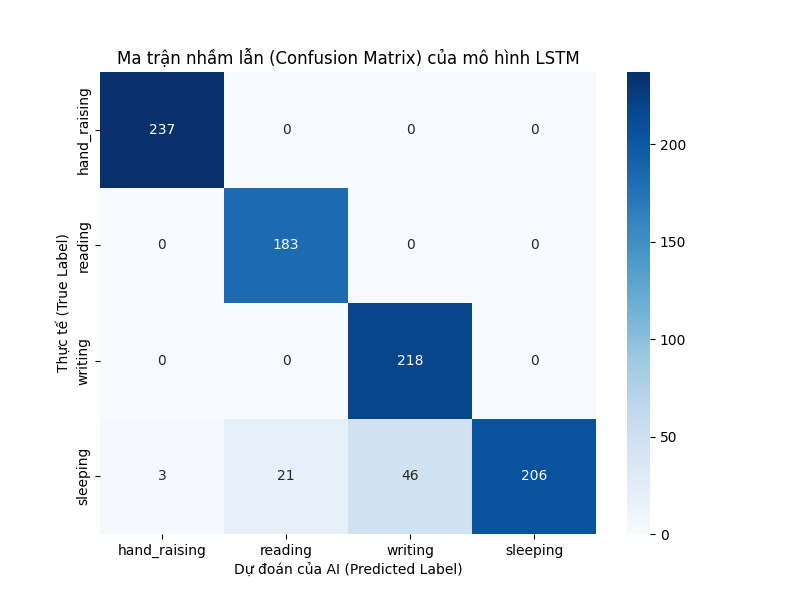
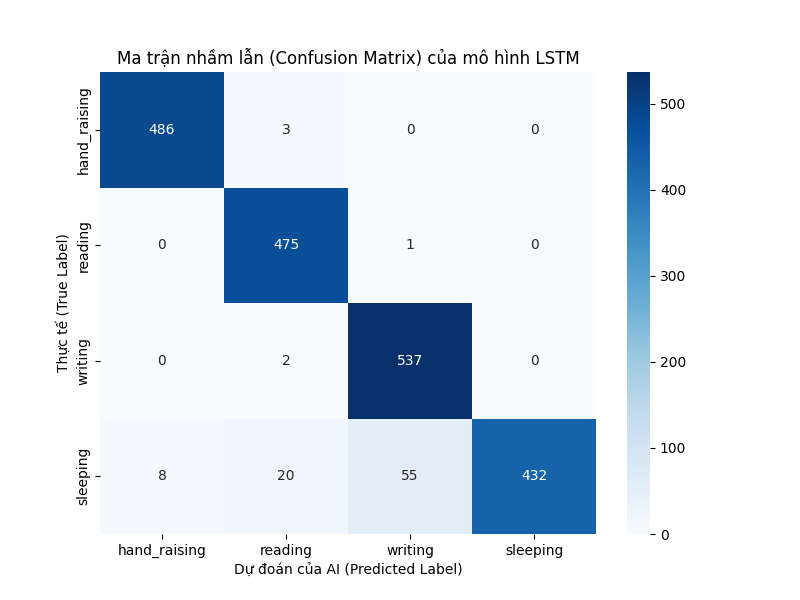
Tuan9 fix feature

diff --git a/src/predict_video.py b/src/predict_video.py
@@ -96,26 +96,38 @@ while True:
             prediction = model.predict(input_data, verbose=0)[0]
             class_id = np.argmax(prediction)
             confidence = prediction[class_id]
-            
-            # --- BỘ LỌC NGƯỠNG TỰ TIN (CONFIDENCE THRESHOLD) ---
-            if confidence < 0.50:
-                current_label = "UNKNOWN"
-            else:
-                current_label = LABEL_MAP[class_id]
+            current_label = LABEL_MAP[class_id]
 
             # --- LƯỚI KHỬ NHIỄU GIƠ TAY (Heuristic Filter) ---
             if current_label == "HAND RAISING" or current_label == "HAND_RAISING":
-                current_features = buffers[track_id][-1] # Tọa độ chuẩn hóa khung hình hiện tại
-                # Theo Code 46 điểm: 15 là cổ tay trái (Tọa độ y: index 31), 16: cổ tay phải (Tọa độ y: index 33)
+                current_features = buffers[track_id][-1] 
                 left_wrist_y = current_features[31]
                 right_wrist_y = current_features[33]
                 
-                # Trục Y của MediaPipe: Số ÂM càng lớn là càng vươn lên cao.
-                # Ngưỡng -0.4 là mức nới lỏng: Tay nhấc qua cằm (Không cần phải thẳng đuột qua đầu).
-                if left_wrist_y > -0.4 and right_wrist_y > -0.4:
-                    # Phủ quyết hành vi Giơ tay (Đưa xác suất Giơ tay về 0)
-                    prediction[0] = 0.0  
-                    # Bắt AI lấy hành vi đứng hạng 2 (Reading / Writing / Sleeping) để làm kết quả
+                # Trục Y: Số ÂM càng lớn là tay càng vươn lên cao. 
+                # Ngưỡng -0.85 bắt buộc tay phải vượt hẳn qua đỉnh đầu (chống cằm/vuốt tóc chỉ khoảng -0.5)
+                is_left_raised = left_wrist_y < -0.85
+                is_right_raised = right_wrist_y < -0.85
+                
+                # Điều kiện ĐÚNG để giơ tay: Có 1 tay vượt đỉnh đầu VÀ không được giơ cả 2 tay (Vươn vai)
+                if not (is_left_raised or is_right_raised) or (is_left_raised and is_right_raised):
+                    prediction[class_id] = 0.0  
+                    class_id = np.argmax(prediction)
+                    confidence = prediction[class_id]
+                    current_label = LABEL_MAP[class_id]
+                    
+            # --- LƯỚI KHỬ NHIỄU NGỦ VÀ VIẾT (Sleeping vs Writing Filter) ---
+            # Dựa vào Khoảng cách từ Mũi (Nose - index 1) đến Vai.
+            if current_label == "SLEEPING":
+                nose_y = buffers[track_id][-1][1]
+                if nose_y < -0.4: # Tinh chỉnh cho góc Camera trên cao: Đầu ngẩng (-0.4) thì không thể là Ngủ
+                    prediction[class_id] = 0.0
+                    class_id = np.argmax(prediction)
+                    current_label = LABEL_MAP[class_id]
+            elif current_label == "WRITING" or current_label == "READING":
+                nose_y = buffers[track_id][-1][1]
+                if nose_y > 0.1: # Đầu gục hẳn xuống sâu hơn vai (> 0.1), chắc chắn là Ngủ
+                    prediction[class_id] = 0.0
                     class_id = np.argmax(prediction)
                     current_label = LABEL_MAP[class_id]
 
@@ -127,9 +139,11 @@ while True:
                 streak_labels[track_id] = current_label
                 streak_counts[track_id] = 1
 
-            # CHUYỂN TRẠNG THÁI NGAY TỨC KHẮC nếu hành động được xác nhận 2 lần liên tiếp
-            # Vừa đáp ứng nhanh (Real-time), vừa chống chớp giật nhãn (Flicker)
-            if streak_counts[track_id] >= 2:
+            # CHUYỂN TRẠNG THÁI:
+            # 1. Ngay lập tức nếu là lần đoán đầu tiên (Chưa có nhãn) -> Chống lỗi Cold Start (Phản hồi tức thì)
+            # 2. Hoặc nếu nhãn được xác nhận 2 lần liên tiếp (Debounce) -> Chống chớp giật nhãn
+            is_first_guess = track_id not in stable_labels or stable_labels.get(track_id) == "Vui long doi..."
+            if is_first_guess or streak_counts[track_id] >= 2:
                 stable_labels[track_id] = current_label
 
             label = stable_labels[track_id]

diff --git a/src/streamlit_inference.py b/src/streamlit_inference.py
@@ -121,12 +121,7 @@ def process_video_for_streamlit(video_path, output_path, st_placeholder, progres
                 prediction = model.predict(input_data, verbose=0)[0]
                 class_id = np.argmax(prediction)
                 confidence = prediction[class_id]
-                
-                # --- BỘ LỌC NGƯỠNG TỰ TIN (CONFIDENCE THRESHOLD) ---
-                if confidence < 0.50:
-                    current_label = "UNKNOWN"
-                else:
-                    current_label = LABEL_MAP[class_id]
+                current_label = LABEL_MAP[class_id]
 
                 # --- LƯỚI KHỬ NHIỄU GIƠ TAY (Heuristic Filter) ---
                 if current_label == "HAND RAISING" or current_label == "HAND_RAISING":
@@ -134,15 +129,29 @@ def process_video_for_streamlit(video_path, output_path, st_placeholder, progres
                     left_wrist_y = current_features[31]
                     right_wrist_y = current_features[33]
                     
-                    if left_wrist_y > -0.8 and right_wrist_y > -0.8:
+                    is_left_raised = left_wrist_y < -0.85
+                    is_right_raised = right_wrist_y < -0.85
+                    
+                    if not (is_left_raised or is_right_raised) or (is_left_raised and is_right_raised):
                         prediction[class_id] = 0.0  
                         class_id = np.argmax(prediction)
                         confidence = prediction[class_id]
+                        current_label = LABEL_MAP[class_id]
                         
-                        if confidence < 0.50:
-                            current_label = "UNKNOWN"
-                        else:
-                            current_label = LABEL_MAP[class_id]
+                # --- LƯỚI KHỬ NHIỄU NGỦ VÀ VIẾT (Sleeping vs Writing Filter) ---
+                if current_label == "SLEEPING":
+                    nose_y = buffers[track_id][-1][1]
+                    if nose_y < -0.4: 
+                        prediction[class_id] = 0.0
+                        class_id = np.argmax(prediction)
+                        current_label = LABEL_MAP[class_id]
+                elif current_label == "WRITING" or current_label == "READING":
+                    nose_y = buffers[track_id][-1][1]
+                    if nose_y > 0.1: 
+                        prediction[class_id] = 0.0
+                        class_id = np.argmax(prediction)
+                        current_label = LABEL_MAP[class_id]
+
                 
                 # --- CƠ CHẾ CẬP NHẬT REALTIME (STATE MACHINE) ---
                 if current_label == st.session_state.streak_labels.get(track_id):
@@ -151,7 +160,8 @@ def process_video_for_streamlit(video_path, output_path, st_placeholder, progres
                     st.session_state.streak_labels[track_id] = current_label
                     st.session_state.streak_counts[track_id] = 1
 
-                if st.session_state.streak_counts[track_id] >= 2:
+                is_first_guess = track_id not in st.session_state.stable_labels or st.session_state.stable_labels.get(track_id) == "Analyzing..."
+                if is_first_guess or st.session_state.streak_counts[track_id] >= 2:
                     old_label = st.session_state.stable_labels.get(track_id, "Analyzing...")
                     st.session_state.stable_labels[track_id] = current_label
                     

diff --git a/src/evaluate_lstm.py b/src/evaluate_lstm.py
@@ -23,6 +23,7 @@ LABELS = {
 # Đảo ngược Dict để in tên nhãn cho đẹp
 REVERSE_LABELS = {v: k for k, v in LABELS.items()}
 
+
 def load_data():
     X = []
     y = []
@@ -38,8 +39,9 @@ def load_data():
                 y.append(label_id)
     return np.array(X), np.array(y)
 
+
 def evaluate_model():
-    print("[*] Đang tải mô hình đã huấn luyện...")
+    print("[*] Đang tải mô hình LSTM...")
     if not os.path.exists(LSTM_MODEL_PATH):
         print(f"[-] Lỗi: Không tìm thấy mô hình tại {LSTM_MODEL_PATH}")
         return
@@ -48,7 +50,7 @@ def evaluate_model():
 
     print("[*] Đang tải dữ liệu kiểm thử (Evaluation Data)...")
     X, y_true = load_data()
-    
+
     if len(X) == 0:
         print("[-] Không có dữ liệu để đánh giá.")
         return
@@ -65,15 +67,16 @@ def evaluate_model():
     print("\n================ MA TRẬN NHẦM LẪN (CONFUSION MATRIX) ================\n")
     cm = confusion_matrix(y_true, y_pred)
     print(cm)
-    
+
     # Đoạn này sẽ tự động lưu ảnh Confusion Matrix ra giúp bạn chèn lên báo cáo
-    plt.figure(figsize=(8,6))
+    plt.figure(figsize=(8, 6))
     sns.heatmap(cm, annot=True, fmt='d', cmap='Blues', xticklabels=target_names, yticklabels=target_names)
     plt.ylabel('Thực tế (True Label)')
     plt.xlabel('Dự đoán của AI (Predicted Label)')
     plt.title('Ma trận nhầm lẫn (Confusion Matrix) của mô hình LSTM')
     plt.savefig('confusion_matrix_results.png')
-    print("\n[+] Đã lưu hình ảnh biểu đồ vào file 'confusion_matrix_results.png' (Bạn hãy chèn ảnh này vào Word).")
+    print("\n[+] Đã lưu hình ảnh biểu đồ vào file 'confusion_matrix_results.png'")
+
 
 if __name__ == "__main__":
     if hasattr(sys.stdout, 'reconfigure'):

diff --git a/src/utils.py b/src/utils.py
@@ -20,18 +20,18 @@ def draw_box(frame, box, track_id=None, label=None):
     x1, y1, x2, y2 = box
 
     # CHỌN MÀU THEO NHÃN HÀNH VI (OpenCV dùng chuẩn BGR: Blue - Green - Red)
-    color = (166, 165, 149)  # Màu xám (Mặc định cho chữ Analyzing...)
+    color = (169, 169, 169)  # Màu xám (Mặc định cho chữ Analyzing...)
 
     if label is not None:
         label_lower = label.lower()
         if "writing" in label_lower:
-            color = (96, 174, 39)  # Xanh Lá
+            color = (255, 0, 0)  # Xanh Dương
         elif "sleeping" in label_lower:
-            color = (43, 57, 192)  # Đỏ
+            color = (0, 0, 255)  # Đỏ
         elif "raise" in label_lower or "raising" in label_lower:
-            color = (182, 89, 155)  # Tím
+            color = (128, 0, 128)  # Tím
         elif "reading" in label_lower:
-            color = (219, 152, 52)  # Xanh Dương
+            color = (0, 255, 0)  # Xanh Lá
         elif "unknown" in label_lower:
             color = (0, 255, 255)   # Màu Vàng
 

diff --git a/app.py b/app.py
@@ -85,11 +85,10 @@ if uploaded_file is not None:
         # Chỉ hiện Legend khi Video bắt đầu chạy
         legend_placeholder.markdown(
             "### 🎨 Legend\n\n"
-            "🟢 Writing\n\n"
-            "🟦 Reading\n\n"
+            "🟢 Reading\n\n"
+            "🟦 Writing\n\n"
             "🔴 Sleeping\n\n"
             "🟣 Raise Hand\n\n"
-            "🟨 Unknown\n\n"
             "⬜ Analyzing"
         )
         
@@ -128,7 +127,7 @@ if uploaded_file is not None:
         
         st.markdown("---")
         # Bảng Thống Kê Hành Vi
-        st.markdown("#### 📊 Bảng thống kê hành vi (State Transition Table)")
+        st.markdown("#### 📊 Bảng thống kê hành vi (Behavior Statistics Table)")
         
         behavior_counts = st.session_state.behavior_data
         if behavior_counts:

diff --git a/Config/config.py b/Config/config.py
@@ -1,7 +1,7 @@
 YOLO_MODEL = "models/yolo/yolov8s.pt"
 LSTM_MODEL = "models/lstm/student_behavior_lstm.h5"
 
-VIDEO_INPUT = "data/videos/sample/Video6.mp4"
+VIDEO_INPUT = "data/videos/sample/SleepingVideo3.mp4"
 
 SEQUENCE_LENGTH = 30
 